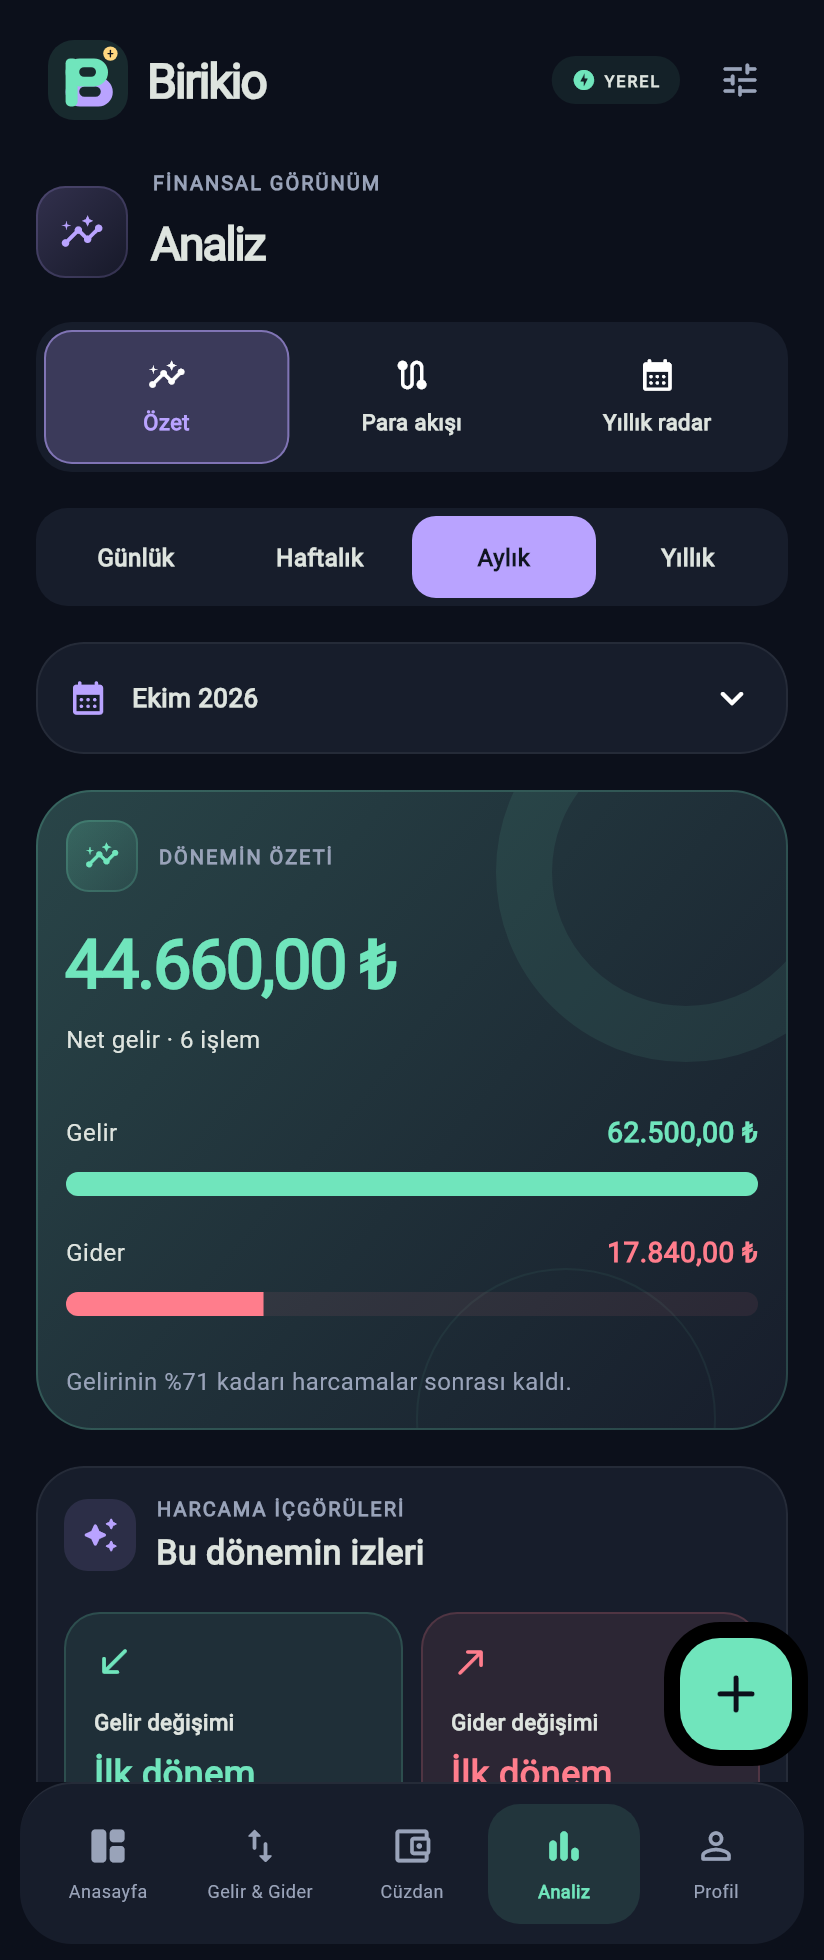
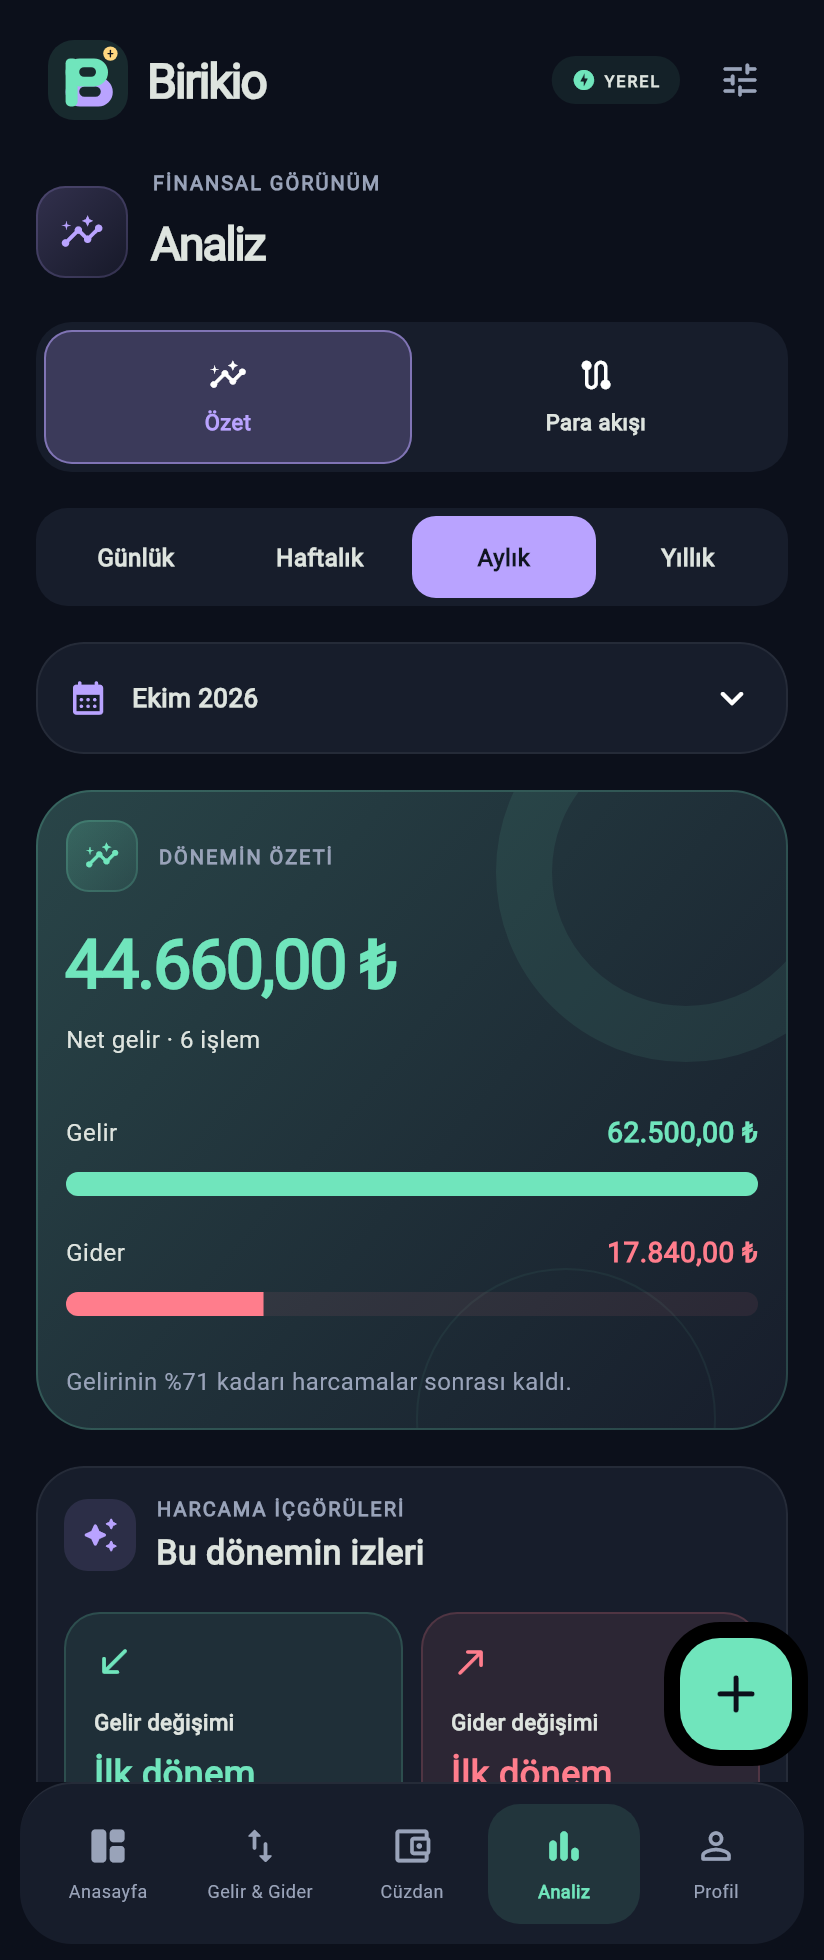
Keep annual radar exclusively in income and expenses

Changed region(s): [[0.3337, 0.1556, 0.5461, 0.249], [0.6675, 0.1867, 0.8495, 0.2179], [0.182, 0.1867, 0.3034, 0.2179]]

diff --git a/lib/ui/reports.dart b/lib/ui/reports.dart
@@ -7,7 +7,6 @@ import 'widgets.dart';
 import 'palette.dart';
 import 'forms.dart';
 import 'money_journey.dart';
-import 'annual_radar.dart';
 import 'orbit_chart.dart';
 import 'money_input.dart';
 
@@ -699,7 +698,7 @@ class _AnalysisPageState extends State<AnalysisPage> {
           ),
           child: Row(
             children: [
-              for (var i = 0; i < 3; i++)
+              for (var i = 0; i < 2; i++)
                 Expanded(
                   child: InkWell(
                     borderRadius: BorderRadius.circular(14),
@@ -730,16 +729,12 @@ class _AnalysisPageState extends State<AnalysisPage> {
                         mainAxisSize: MainAxisSize.min,
                         children: [
                           Icon(
-                            [
-                              Icons.insights_rounded,
-                              Icons.route_rounded,
-                              Icons.calendar_month_rounded,
-                            ][i],
+                            [Icons.insights_rounded, Icons.route_rounded][i],
                             size: 19,
                           ),
                           const SizedBox(height: 6),
                           Text(
-                            ['Özet', 'Para akışı', 'Yıllık radar'][i],
+                            ['Özet', 'Para akışı'][i],
                             textAlign: TextAlign.center,
                             style: TextStyle(
                               fontSize: 11,
@@ -885,7 +880,6 @@ class _AnalysisPageState extends State<AnalysisPage> {
                   ),
                 ],
               ],
-              if (view == 2) AnnualRadar(store: widget.store),
               if (view == 0) ...[
                 FeatureCard(
                   color: financeColors(context).positive,

diff --git a/test/analysis_experience_test.dart b/test/analysis_experience_test.dart
@@ -123,6 +123,11 @@ void main() {
       await tester.pumpWidget(BirikioApp(store: store));
       await tester.tap(find.text('Analiz').last);
       await tester.pumpAndSettle();
+      expect(find.text('Yıllık radar'), findsNothing);
+      expect(find.text('Özet'), findsOneWidget);
+      expect(find.text('Para akışı'), findsOneWidget);
+      await tester.tap(find.text('Gelir & Gider').last);
+      await tester.pumpAndSettle();
       await tester.tap(find.text('Yıllık radar'));
       await tester.pumpAndSettle();
       expect(find.text('Planla'), findsNothing);

diff --git a/README.md b/README.md
@@ -136,7 +136,7 @@ Anasayfadan kayıtlar ve takvim doğrudan açılır. Cüzdanda birikim ve bütç
 | **Anasayfa** | Hedefini, kullanılabilir bakiyeni, aylık özeti, finans yönetimi puanını ve geciken ödemeleri gör; kartları açıp kapat ve sıralarını düzenle. |
 | **Gelir & Gider** | Ay ay veya bütün geçmişi gör; gerçekleşmiş ve bekleyen kayıtları düzenle, düzenli serilere ve yıllık takvime doğrudan geç. |
 | **Cüzdan** | Birikim hedeflerini tarih ve aylık katkıyla planla; genel ve kategori bütçelerini izle. |
-| **Analiz** | Günlük, haftalık, aylık veya yıllık dönemi seç; gelir/gider karşılaştırmasını, harcama içgörülerini, kategori dağılımını, Paranın Yolculuğu akışını ve Yıllık Radar'ı gör. |
+| **Analiz** | Günlük, haftalık, aylık veya yıllık dönemi seç; Özet ve Para akışı sekmelerinde gelir/gider karşılaştırmasını, harcama içgörülerini, kategori dağılımını ve Paranın Yolculuğu akışını gör. Yıllık radar yalnızca Gelir & Gider sayfasındadır. |
 | **Profil** | Kategorileri ve yerel bildirimleri yönet; JSON yedek oluştur/geri yükle ve Türkçe CSV aktar. |
 
 ### Daha az uğraş, daha düzenli takip
@@ -198,7 +198,7 @@ pwsh -File tools/build_update_apk.ps1
 
 Betik analiz ve testlerden sonra release APK'sini derler; aynı özel anahtarla imzalar ve paket kimliği, sürüm kodu ile sertifika parmak izini doğrulamadan masaüstüne kopyalamaz. Son teslim kodunu `tools/update_identity.json` içinde günceller; bu dosyayı da değişikliklerle birlikte commit et. Eski anahtar `~/.android/debug.keystore` konumunda bulunmalıdır. Anahtarın güvenli bir çevrimdışı kopyasını sakla; **yeni debug anahtarı üretmek aynı imzayı sağlamaz**. Bu anahtarı repoya ekleme.
 
-Telefonunda önceki Birikio APK'si yüklüyse güncelleme için `com.bekirturgut.birikio` paket kimliği, **aynı imza sertifikası** ve daha yüksek `versionCode` gerekir. Son teslim `1.2.3+8` değerini kullanır. Kurmadan önce **Profil → Yedek oluştur**; APK'yi mevcut uygulamanın üzerine **Güncelle** ile kur. Kaldırma veya uygulama verilerini temizleme yerel kayıtları silebilir. İmza uyuşmazlığı yüzünden Android kaldırma isterse işlemi durdur ve yedeği al.
+Telefonunda önceki Birikio APK'si yüklüyse güncelleme için `com.bekirturgut.birikio` paket kimliği, **aynı imza sertifikası** ve daha yüksek `versionCode` gerekir. Son teslim `1.2.4+9` değerini kullanır. Kurmadan önce **Profil → Yedek oluştur**; APK'yi mevcut uygulamanın üzerine **Güncelle** ile kur. Kaldırma veya uygulama verilerini temizleme yerel kayıtları silebilir. İmza uyuşmazlığı yüzünden Android kaldırma isterse işlemi durdur ve yedeği al.
 
 > README görselleri Flutter widget testinde gerçek arayüz bileşenlerinden üretilir. iOS cihaz derlemesi henüz doğrulanmamıştır.
 
